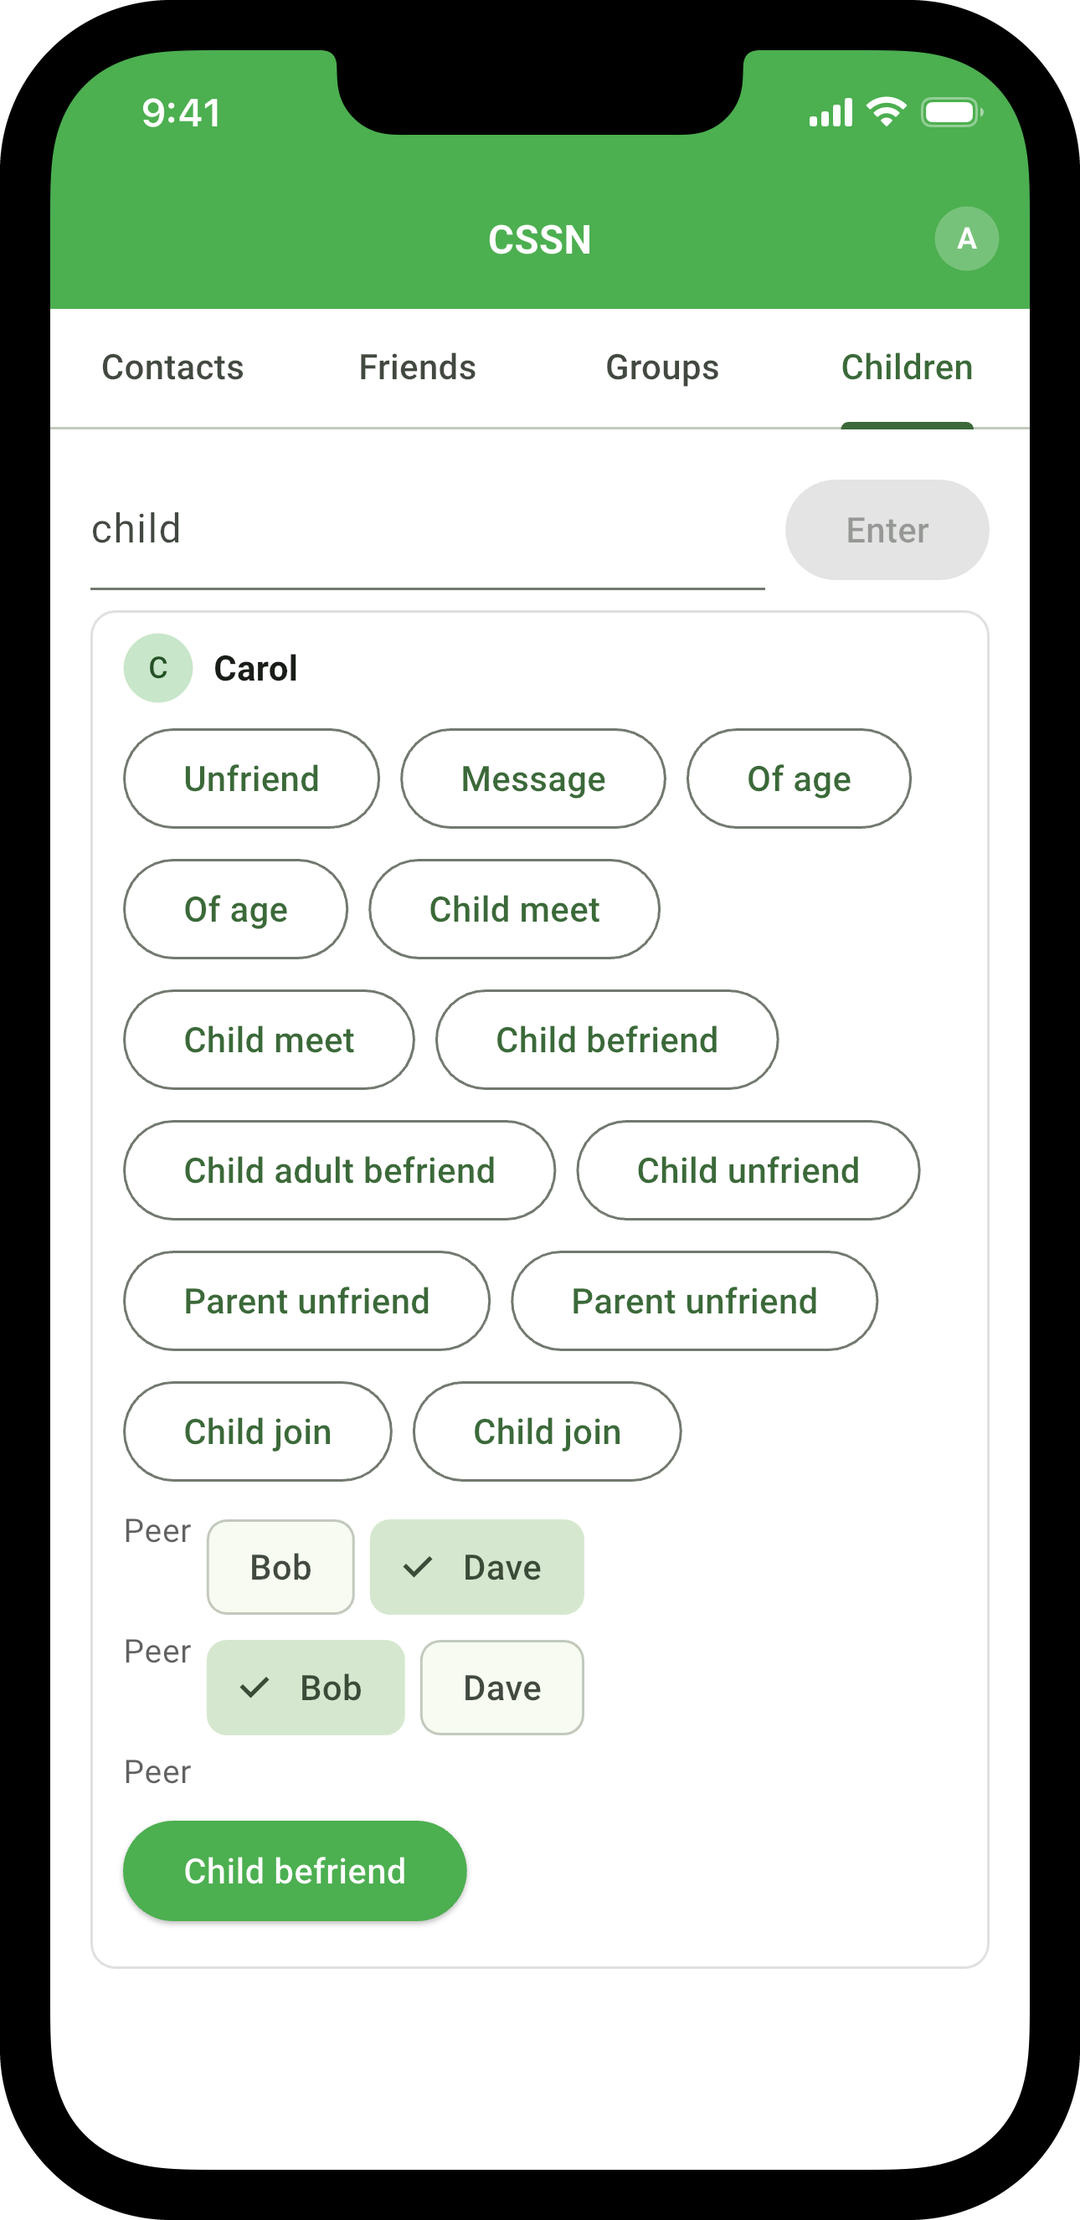
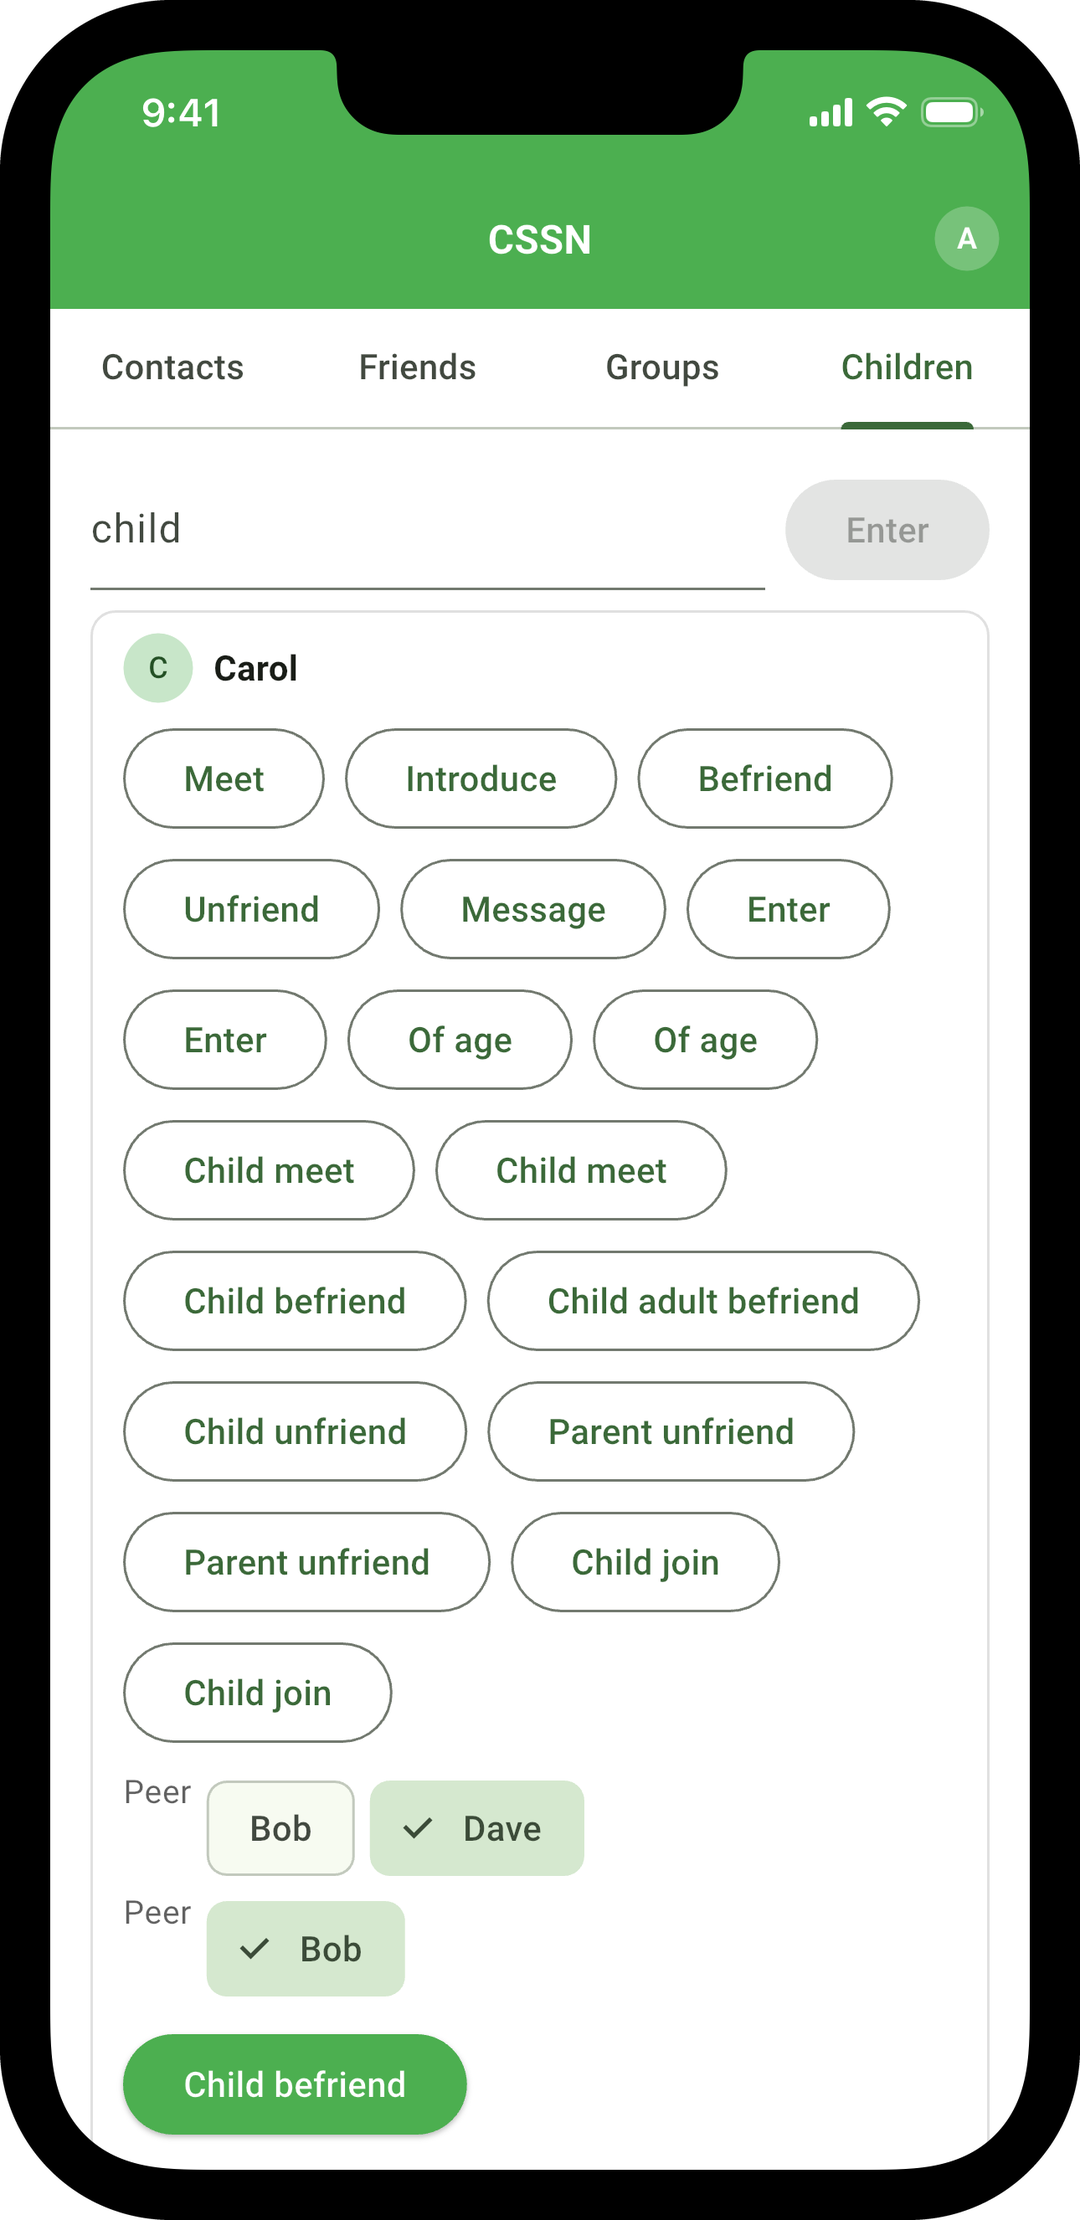
cssn: Figure 3's screen (2) re-taken on the iOS Simulator at 2426effd, Child befriend's other parent picked from Alice's Friends, two pickers and no empty third; README to what it shows

Changed region(s): [[0.0917, 0.3108, 0.8556, 0.9635], [0.7639, 0.6216, 0.7944, 0.6527], [0.7028, 0.6838, 0.7333, 0.7149]]

diff --git a/programs/cssn/figures/README.md b/programs/cssn/figures/README.md
@@ -27,7 +27,7 @@ The script plays on the simulator the scenario of `glp_multiagent/test/apps_scre
 | File | What it shows |
 |---|---|
 | `cssn-app-1.png` | (1) Alice's Children tab, after she and Bob meet and befriend: Enter with its field child, and Carol, her child, with the button of every act that names a person (above).  Dave, whom Bob's agent introduced to hers, is on no tab, her state naming him in no atom; he is offered where she picks a person into a place. |
-| `cssn-app-2.png` | (2) The same tab after Carol and Dave meet, as Alice composes her request: Child befriend open beside Carol, Dave picked into the second child and Bob into the other parent, each place named Peer, and the button Child befriend, which proposes `child_befriend(carol, dave, alice, bob)`.  Taken at 1ff9fff3; not re-taken on main's compiler, which draws below the two person pickers a third, empty, for place 4 as an item of the list of friend (Code #15's CSSN-shots report). |
+| `cssn-app-2.png` | (2) The same tab after Carol and Dave meet, as Alice composes her request: Child befriend open beside Carol, Dave picked into the second child and Bob into the other parent, each place named Peer, and the button Child befriend, which proposes `child_befriend(carol, dave, alice, bob)`.  Re-taken on the iOS Simulator at 2426effd, on main's compiler: two pickers, each named Peer, the second child offering Bob and Dave and the other parent offering Bob alone, the one row of Alice's Friends, since that place is an item of the list of friend, `item(4, friend)`, and is picked once, from that list's rows. |
 | `cssn-app-3.png` | (3) Bob's Children tab, badged: "Alice asks that Carol and your child Dave befriend.", yes and no at its top; under it Enter, and Dave, his child, with his buttons. |
 | `cssn-app-4.png` | (4) Carol's Children tab, badged: "Alice asks that you and Dave befriend.", yes and no at its top; the tab lists no child of hers. |
 | `cssn-app-5.png` | (5) Carol's Friends while Dave is her friend: Dave, and Alice, her parent and first friend, each with the buttons of every act that names a person, Unfriend and Join among them.  Bob, whom Alice's agent introduced to hers at the level of the machines, is on no tab. |
